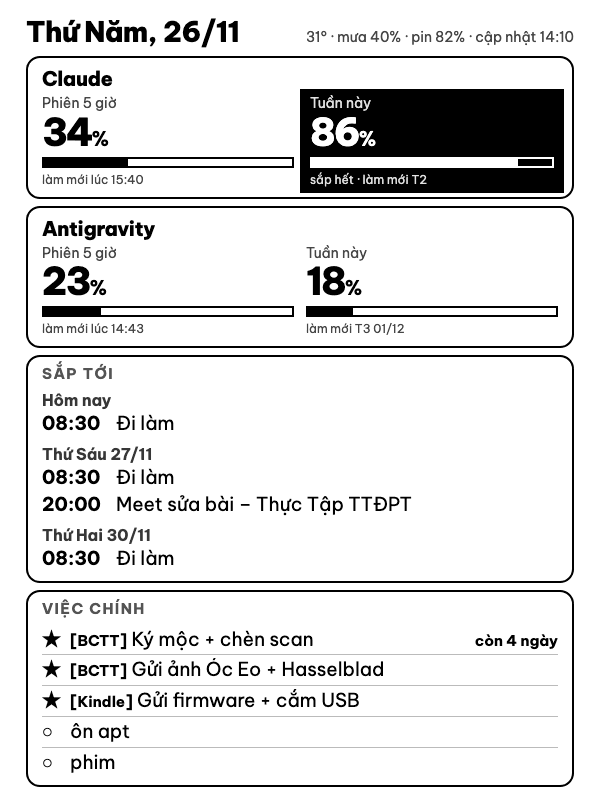
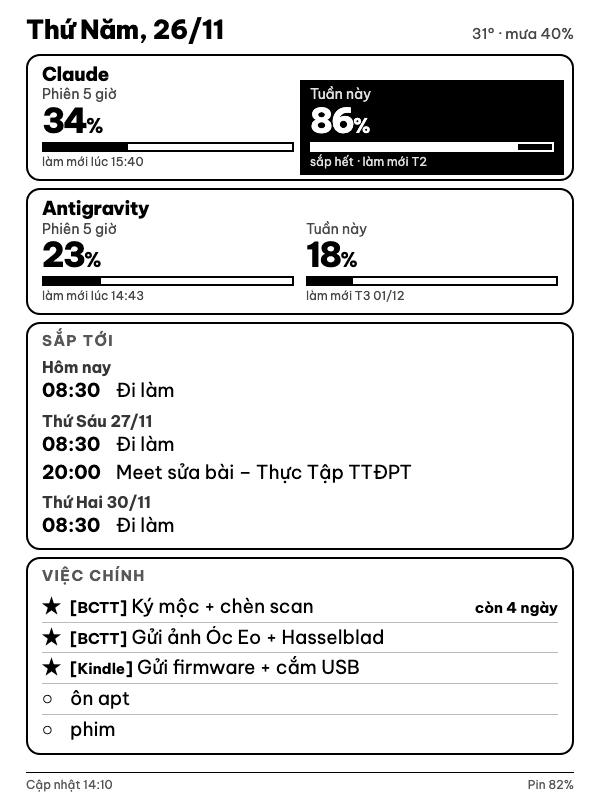
Mẫu A: giờ cập nhật + pin về chân trang, thẻ hạn mức gọn lại

Changed region(s): [[0.03, 0.0, 0.96, 1.0], [0.42, 0.5625, 0.69, 0.6562]]

diff --git a/mau/mau.html b/mau/mau.html
@@ -9,20 +9,20 @@
 html,body{width:600px;height:800px;overflow:hidden;background:#fff;color:#000}
 body{font-family:"Be Vietnam Pro",sans-serif;font-size:17px;line-height:1.25;padding:14px 26px 0}
 .head{display:flex;justify-content:space-between;align-items:baseline;margin-bottom:2px}
-.date{font-size:28px;font-weight:800;letter-spacing:-.5px}
-.meta{font-size:14px;color:#444}
+.date{font-size:26px;font-weight:800;letter-spacing:-.5px}
+.meta{font-size:15px;color:#444}
 .card{border:2.5px solid #000;border-radius:14px;padding:8px 14px;margin-top:7px}
 .label{font-size:13px;font-weight:700;letter-spacing:1.4px;text-transform:uppercase;color:#555;margin-bottom:4px}
 /* thẻ hạn mức: giống bản đầu, tên công cụ đậm to để phân biệt */
-.brand{font-size:20px;font-weight:800;letter-spacing:-.3px;margin-bottom:2px}
+.brand{font-size:19px;font-weight:800;letter-spacing:-.3px;line-height:1.1}
 .usage{display:grid;grid-template-columns:1fr 1fr;gap:12px}
 .u{padding:2px 0}
 .u .name{font-size:14px;color:#444}
-.u .pct{font-size:38px;font-weight:800;line-height:1;letter-spacing:-2px}
+.u .pct{font-size:34px;font-weight:800;line-height:1;letter-spacing:-2px}
 .u .pct small{font-size:20px;letter-spacing:0}
-.bar{height:11px;border:2px solid #000;margin-top:6px;position:relative}
+.bar{height:10px;border:2px solid #000;margin-top:4px;position:relative}
 .bar i{position:absolute;inset:0 auto 0 0;background:#000}
-.u .sub{font-size:12px;color:#444;margin-top:4px}
+.u .sub{font-size:12px;color:#444;margin-top:2px}
 .u.warn{background:#000;color:#fff;padding:6px 10px;margin:-4px -6px}
 .u.warn .name,.u.warn .sub{color:#ddd}
 .u.warn .bar{border-color:#fff}.u.warn .bar i{background:#fff}
@@ -41,10 +41,11 @@ body{font-family:"Be Vietnam Pro",sans-serif;font-size:17px;line-height:1.25;pad
 .todo .due{font-size:15px;font-weight:700;white-space:nowrap}
 .todo.late{background:#000;color:#fff;padding:4px 8px;margin:0 -8px}
 .foot{position:absolute;left:26px;right:26px;bottom:14px;display:flex;justify-content:space-between;font-size:13px;color:#555;border-top:1.5px solid #000;padding-top:6px}
+.foot{position:absolute;left:26px;right:26px;bottom:8px;display:flex;justify-content:space-between;font-size:12px;color:#555;border-top:1.5px solid #000;padding-top:4px}
 </style>
 </head>
 <body>
-<div class="head"><div class="date">Thứ Năm, 26/11</div><div class="meta">31° · mưa 40% · pin 82% · cập nhật 14:10</div></div>
+<div class="head"><div class="date">Thứ Năm, 26/11</div><div class="meta">31° · mưa 40%</div></div>
 
 <div class="card">
   <div class="brand">Claude</div>
@@ -82,5 +83,6 @@ body{font-family:"Be Vietnam Pro",sans-serif;font-size:17px;line-height:1.25;pad
   <div class="todo"><span class="s">○</span><span class="txt">phim</span></div>
 </div>
 
+<div class="foot"><span>Cập nhật 14:10</span><span>Pin 82%</span></div>
 </body>
 </html>
